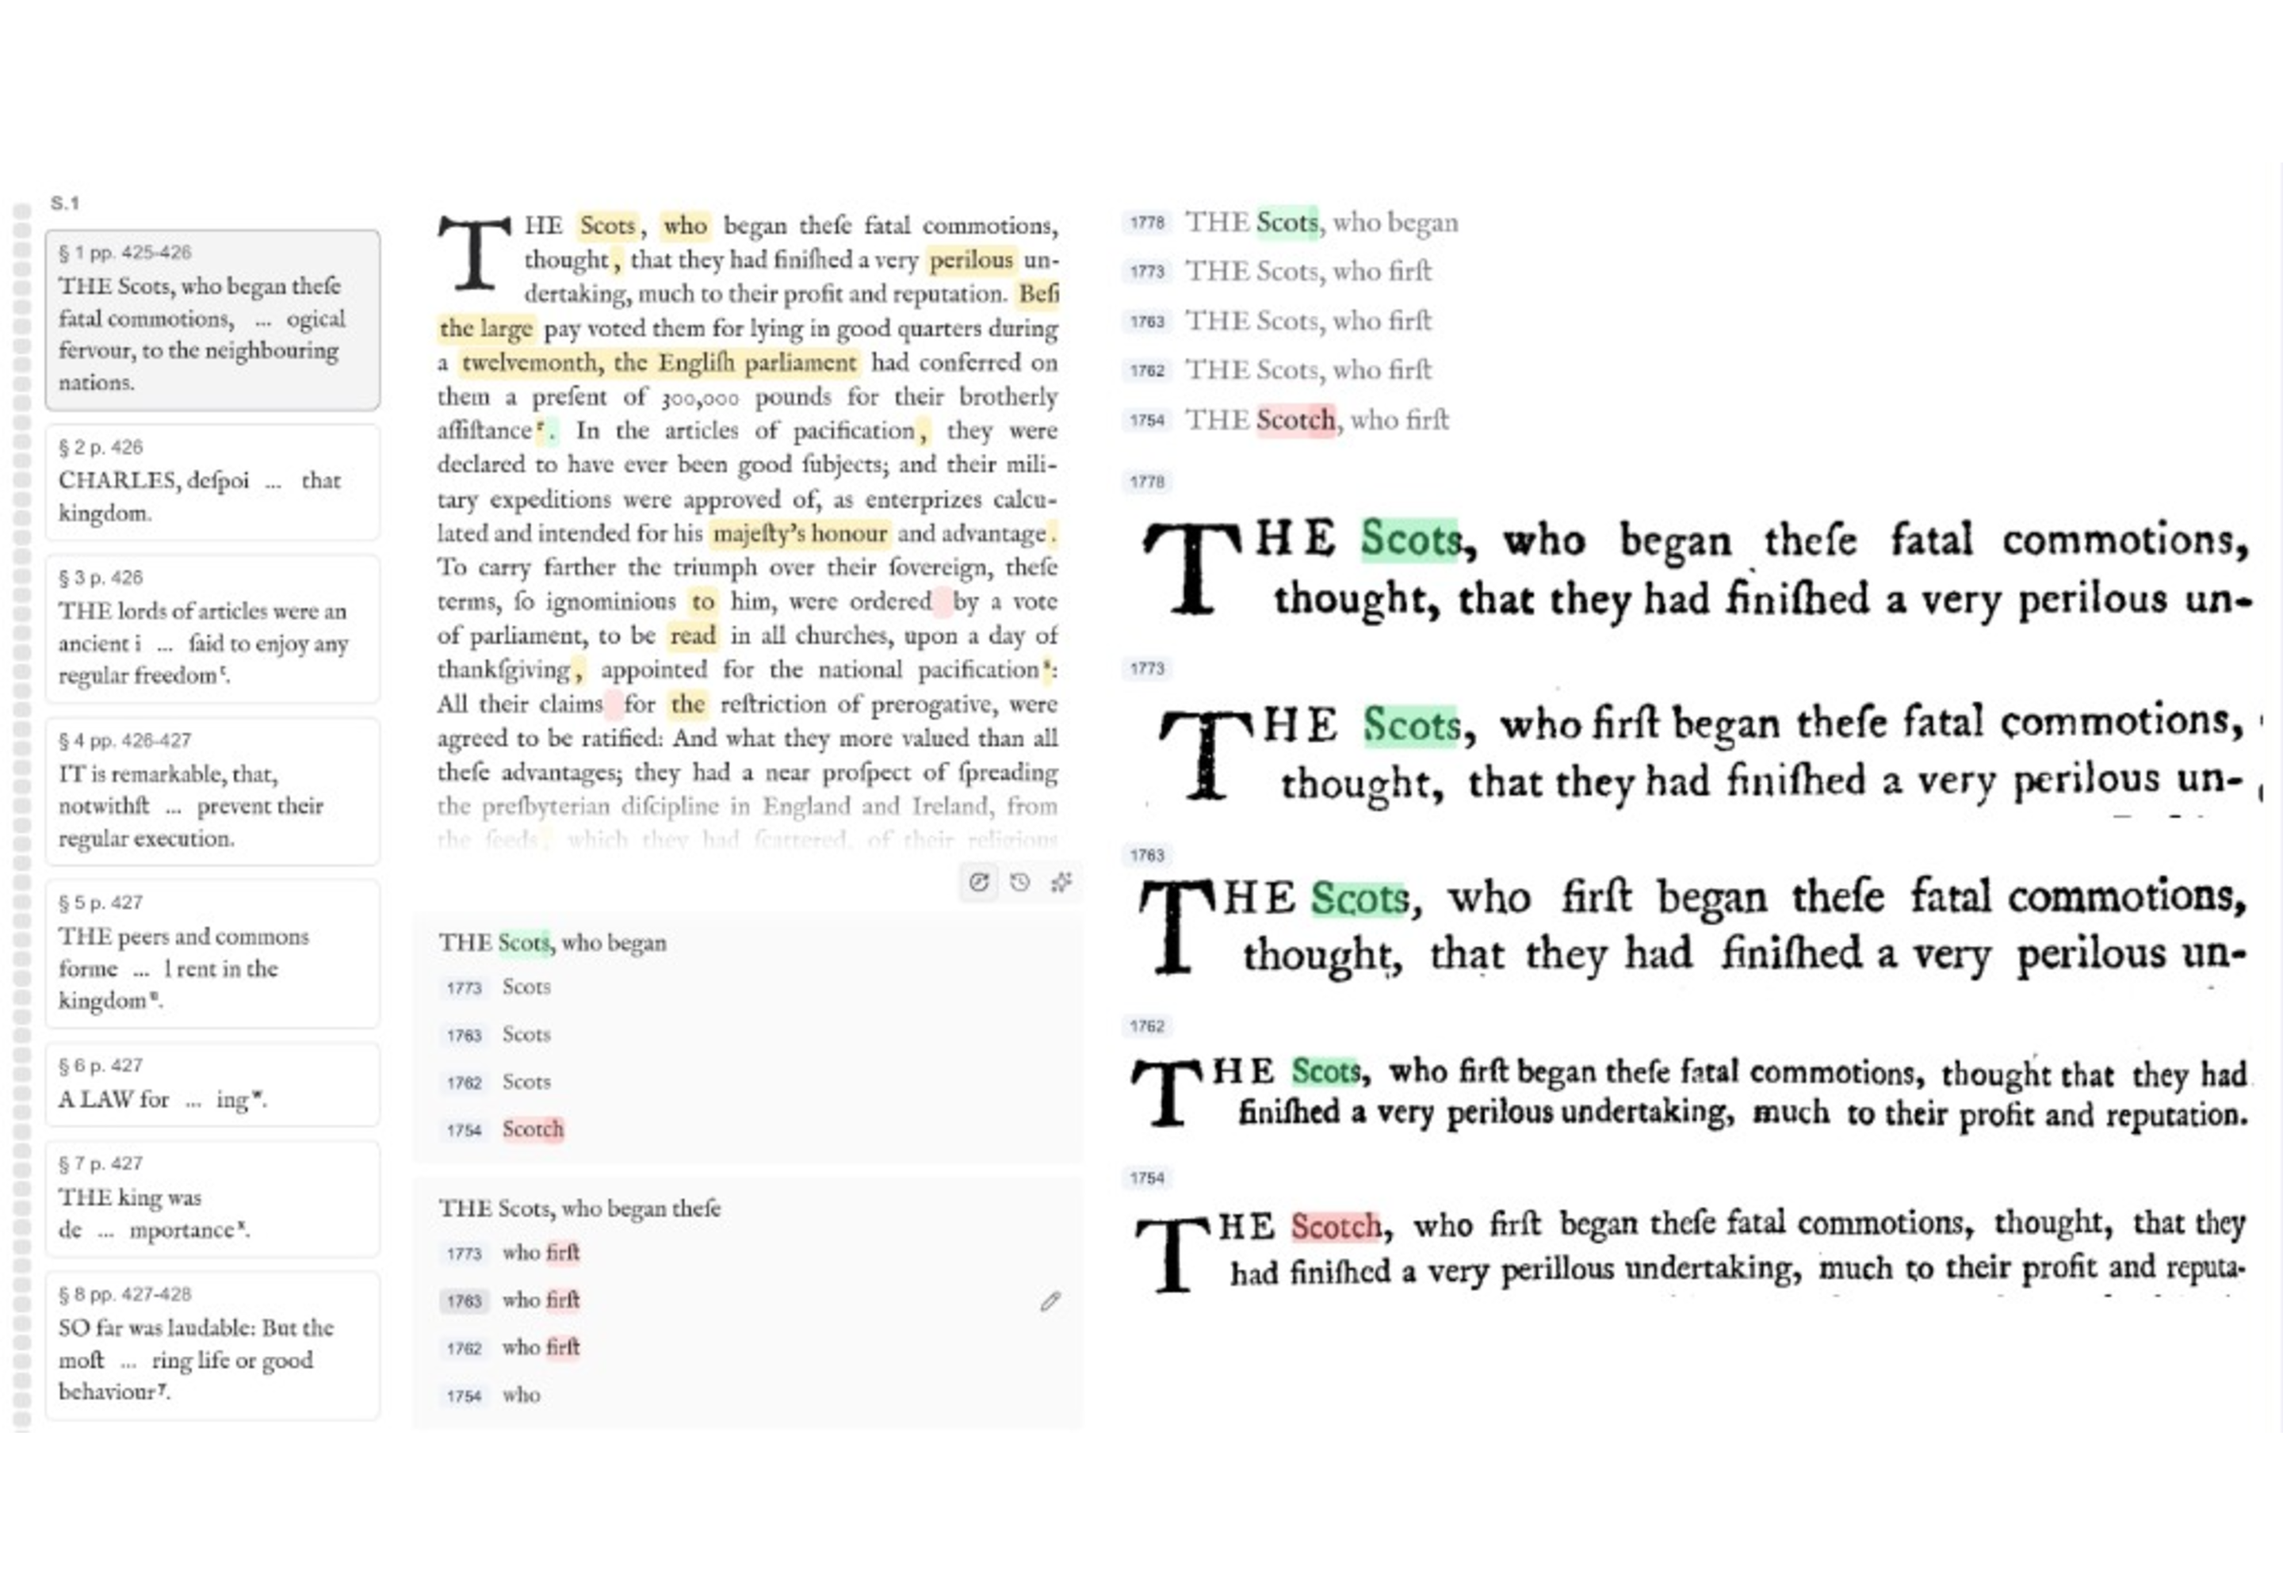
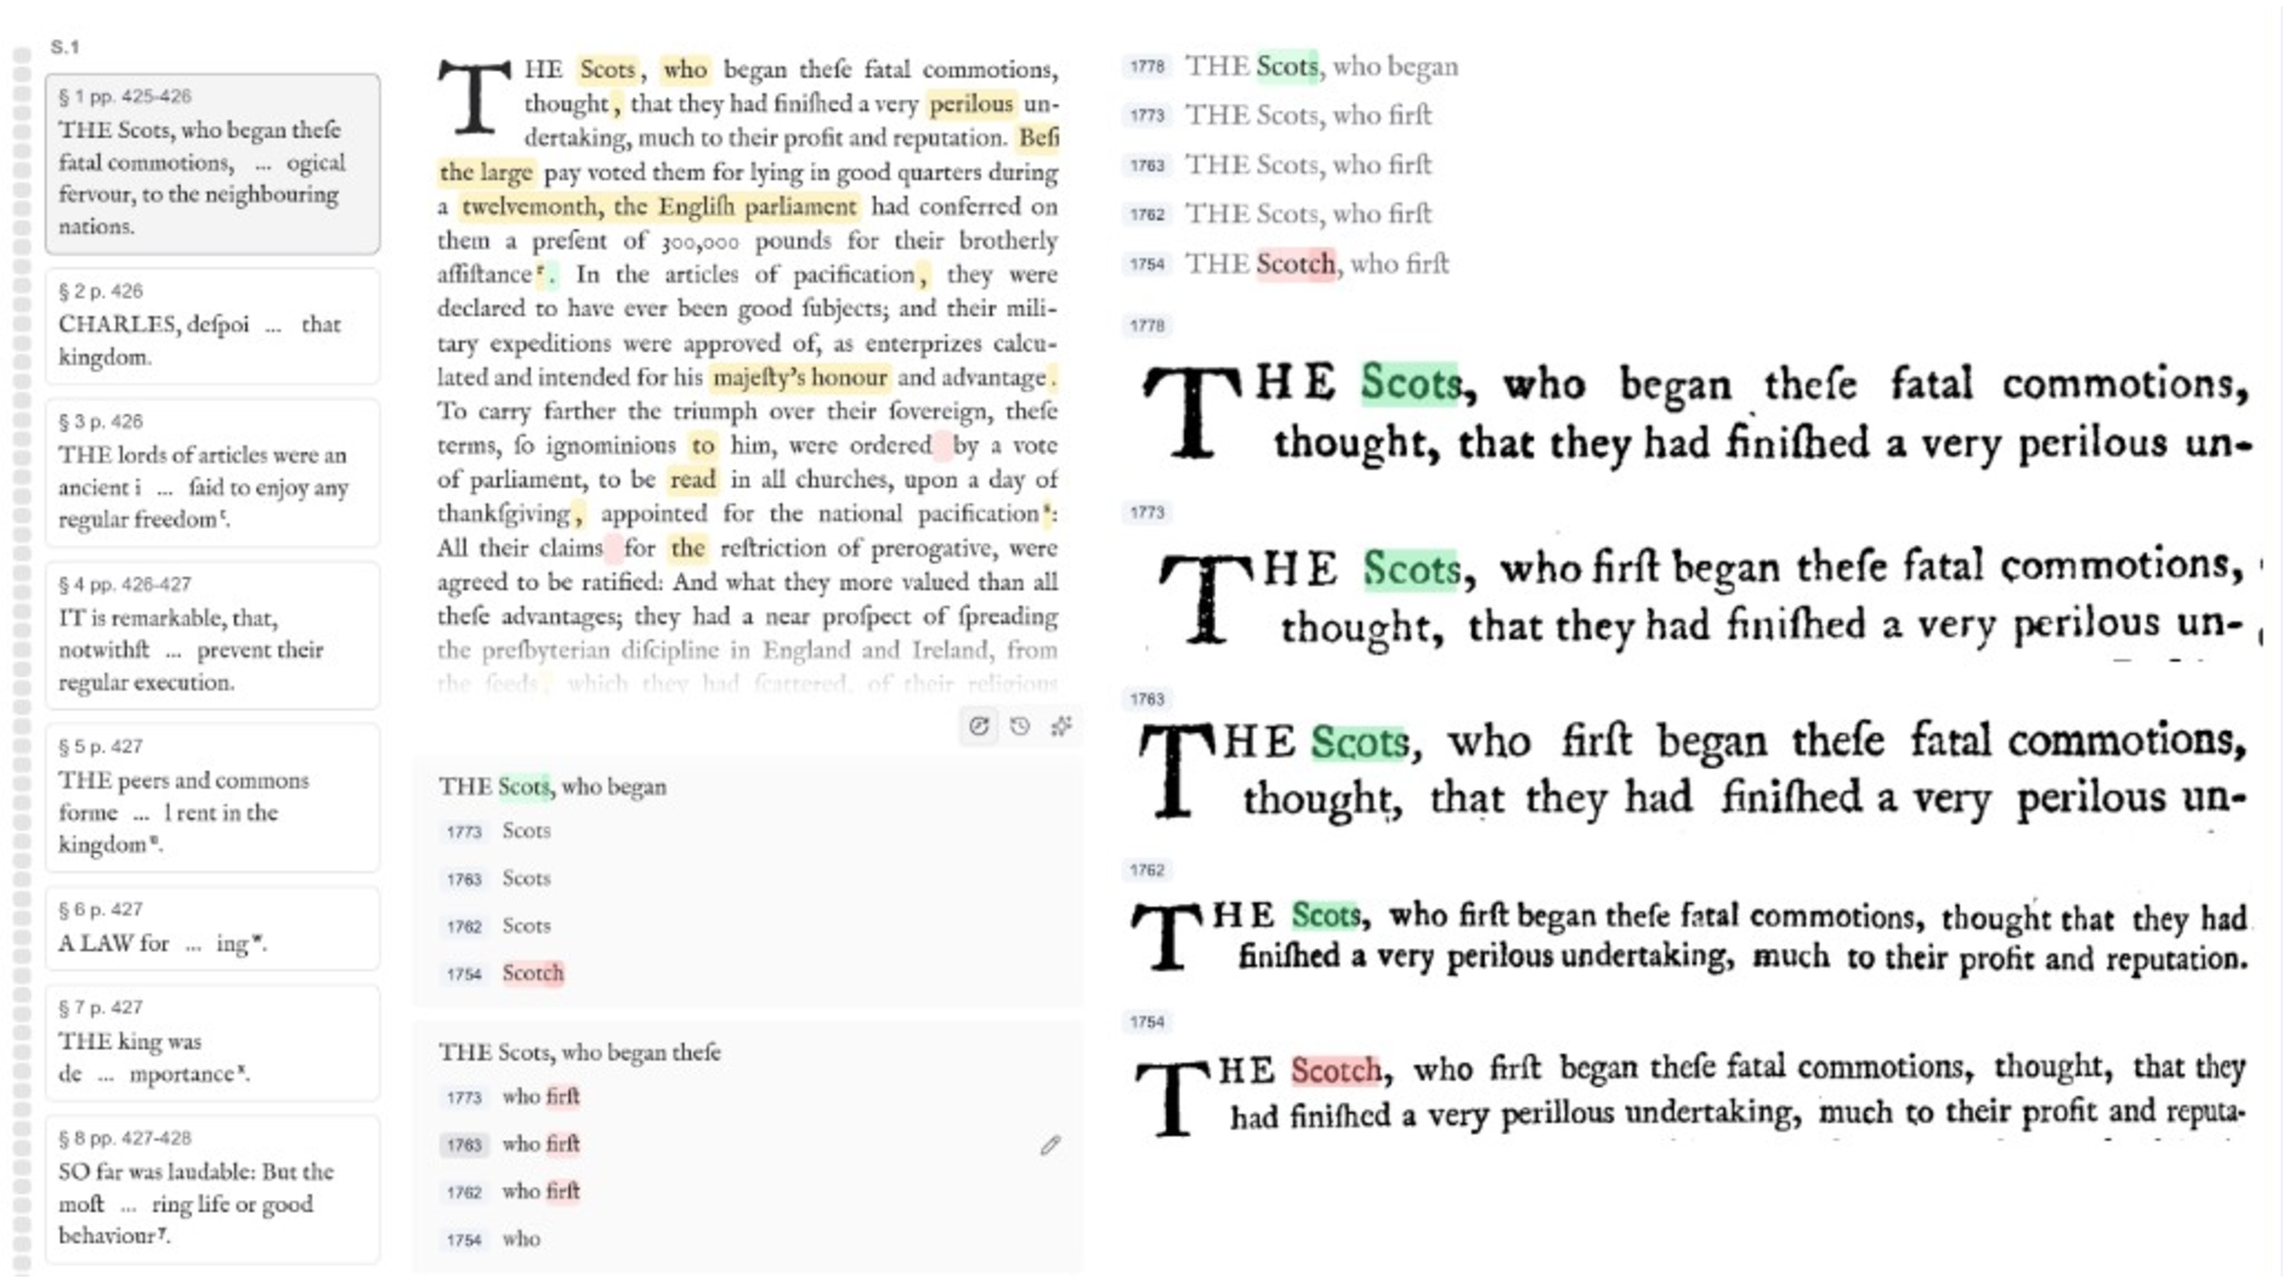
Revise paper

diff --git a/CHIIR-PAPER.tex b/CHIIR-PAPER.tex
@@ -48,7 +48,7 @@ Preparing a critical edition of a historical work requires comparing textual var
 For large works with many editions, the task may become too laborious to tackle manually.
 This paper presents a modular digitisation and automation pipeline, illustrated with a working interface, for undertaking such scholarly projects in the humanities.
 The pipeline ingests upstream page data containing layout geometry and OCR text, maps display to page images, supports various annotation tasks for page inventory, layout geometry, and text correction, automates logical structure assignment, and shortlists textual changes across editions for examination while retracing the digital text segments to page-image evidence.
-This paper describes its implementation in an ongoing critical-edition project of substantial scope: David Hume's \emph{History of England}, with field experts as users, and demonstrates that the modular pipeline approach can help historians get to interpretive work sooner while preserving traceable bibliography to source pages, and that the adaptable conceptual design can generalise to similar document-centric digital humanities projects.
+This paper describes its implementation in an ongoing critical-edition project of substantial scope: David Hume's \emph{History of England}, with field experts as users, and demonstrates that the modular pipeline approach can help historians get to interpretive work sooner while preserving traceable bibliography to source pages, and that the adaptable conceptual design can generalise to similar document-centric digital humanities projects as well.
 \end{abstract}
 
 \begin{CCSXML}
@@ -102,7 +102,7 @@ The interface is currently in pilot use, supporting a live editorial project in 
 This paper makes three contributions.
 First, it describes a modular pipeline that imports upstream page data and produces editable digital layout and text objects that can be interfaced with both machine processing and human annotation.
 Second, it presents the workflow for layout and text correction, landmark assignment, text comparison, and scholarly review.
-Third, it uses the \emph{History of England} project to show how such a pipeline supports expert historians in a critical-edition workflow, and reports what the comparison procedures emit on one chapter.
+Third, it uses the \emph{History of England} project to show how such a pipeline supports expert historians in a critical-edition workflow, and reports what the comparison procedures emit on one chapter of the ongoing editorial project.
 
 \begin{figure*}[t]
   \centering
@@ -174,7 +174,7 @@ The historian decides whether a difference is typographical, accidental, or hist
 \textbf{Traceability.}
 Both procedures display the spans already computed.
 They do not recompute the comparison in order to paint the page.
-Each digital segment is traced to bounding boxes on the page image of the relevant edition, so the same reading can be checked in its printed line and in the surrounding context.
+Each digital segment is traced to bounding boxes on the page image of the relevant edition, so the same reading can be checked in its printed line and in the surrounding context of the page.
 
 \begin{figure}[t]
   \centering
@@ -194,8 +194,9 @@ Each digital segment is traced to bounding boxes on the page image of the releva
 
 \begin{figure*}[t]
   \centering
+  \setlength{\abovecaptionskip}{2pt}
   \includegraphics[width=\textwidth]{candidate-facsimile.png}
-  \caption{Candidate readings for the passage beginning ``The Scots, who began'', with edition-specific facsimile snippets across 1778--1754.}
+  \caption{Candidate readings with edition-specific facsimile snippets across 1778--1754.}
   \Description{A paragraph navigator appears on the left, a selected passage with marked candidate readings in the centre, and stacked cropped facsimile lines labelled by edition year on the right.}
   \label{fig:candidate}
 \end{figure*}
@@ -206,7 +207,7 @@ The comparison procedures were run on 30 October 2026 over Chapter~LV of the 177
 Line text is the current editorial reading, joined by the same hyphen rules as the interface.
 Five editions have aligned material: 1754, 1762, 1763, 1773, and 1778.
 The 1757 edition is absent because no chapter is aligned, not because the texts agree, and 1754 and 1762 print the passage as Chapter~VI.
-No hand-made collation was used as an answer key, so the counts describe what the procedures emit.
+No hand-made collation was used as an answer key, so the counts describe what the procedures emit from the editorial readings now in use.
 
 \begin{table}[t]
   \caption{Chapter scale for the five aligned editions. The 1778 text is the lemma.}
@@ -258,7 +259,7 @@ The 1754 counts in Table~\ref{tab:pairwise} sum to 20,425, one above the 20,424 
     Long-s-only replacements excluded & 165 \\
     Grouped candidate sites & 2,398 \\
     Modification sites & 1,364 (56.9\%) \\
-    Gap on lemma & 791 (33.0\%) \\
+    Deletion in lemma & 791 (33.0\%) \\
     Lemma wording absent as a block & 243 (10.1\%) \\
     Median sites per lemma paragraph & 14 \\
     Lemma words inside site cores & 3,127/19,676 (15.9\%) \\
@@ -275,31 +276,32 @@ At the opening site the lemma reads \emph{Scots}; 1754 reads \emph{Scotch}, whil
 That cell shows the form of an entry.
 It is not a summary of Hume's revision history.
 
-One paragraph link dominates the empty sites.
-The lemma paragraph is 62 words, while the paragraph aligned to it is 292 words in 1754 and 252 words in 1762 and 1763; the 1773 extent matches the lemma at 62 words.
-The multi-edition procedure does not re-split paragraphs, so the extra words become gaps on the lemma.
-That single link produces 610 sites, 604 of them empty, and those 604 account for most of the 791 gaps in the chapter.
-Without that paragraph the mean falls from 21.8 to 16.4 sites and the maximum from 610 to 68.
-The pairwise interface does not explode the same mismatch: unmatched sentences stay whole, which is why the 1754 large-divergence count in Table~\ref{tab:pairwise} is 1,147 words rather than hundreds of one-word sites.
-A further 725 published site cores match every linked reading once long~s is folded.
-Of those, 644 are empty gaps and 81 are non-empty cores that no longer differ after the core has been tightened.
-A published site is therefore not, by itself, a displayed disagreement.
+One of the paragraph links joins passages that are not the same length.
+The 1778 paragraph beginning ``The pulpits likewise were called in aid'' is 62 words, but the paragraph aligned to it is 292 words in 1754 and 252 words in 1762 and 1763.
+Only the 1773 paragraph matches the lemma, at 62 words.
+The comparison does not split a paragraph it has been given, so the extra wording is recorded as places where the 1778 text has nothing between the surrounding words.
+That one link produces 610 sites, 604 of them deletions in the lemma, and those 604 are most of the 791 deletions in the chapter.
+Set that paragraph aside and the mean is 16.4 sites rather than 21.8, and the longest of the rest has 68 sites rather than 610.
+Pairwise comparison leaves the extra sentences whole, which is why Table~\ref{tab:pairwise} counts 1,147 words of large divergence in 1754 rather than hundreds of one-word sites.
+A further 725 sites have a lemma core that matches every linked reading once long~s is set aside: 644 are deletions in the lemma, including the 604 from this paragraph, and 81 are cores tightened until nothing differed.
+A site in the list is therefore not, by itself, a disagreement the editions display.
 
 \section{Discussion}
 
 The Hume corpus is distinctive in its size and publication history, but the workflow is a common one: collect page images, process them into machine-readable data, correct and structure the text, compare differences, and link each segment back to the page.
 The same pipeline can be adapted for another document-based project once corresponding passages can be aligned and the printed page remains available for checking.
-The chapter shows that the two grains are not interchangeable: the pairwise view keeps unmatched sentences whole, while the apparatus turns one over-broad paragraph link into hundreds of empty gaps.
+The chapter shows that the two grains are not interchangeable: the pairwise view keeps unmatched sentences whole, while the apparatus records that extra wording as hundreds of deletions in the lemma rather than as whole blocks.
 
 \textbf{Limitations.}
 Image quality, layout detection, and OCR performance affect the text that annotators must correct, and correction across the wider project remains uneven.
 The evaluation uses one chapter and its existing paragraph links.
 It does not measure precision or recall against a scholar's collation.
-Which variations are historically significant remains for the historian to decide, facsimile rights constrain redistribution, and the same rules have not been tested on other typographies.
+Which variations are historically significant remains for the historian to decide, facsimile rights constrain redistribution, and the same rules have not been tested on other typographies or any other editorial conventions.
 
 \section{Conclusion}
 
 The pipeline carries page images through correction, alignment, and textual comparison while keeping each segment traceable to the printed line.
+Shortlisting sites of variation, and leaving the facsimile available for checking, allows humanities scholars to devote more of their time and effort to interpretive work across the editions.
 
 %% Acknowledgements are omitted from the anonymous review version.
 \begingroup
